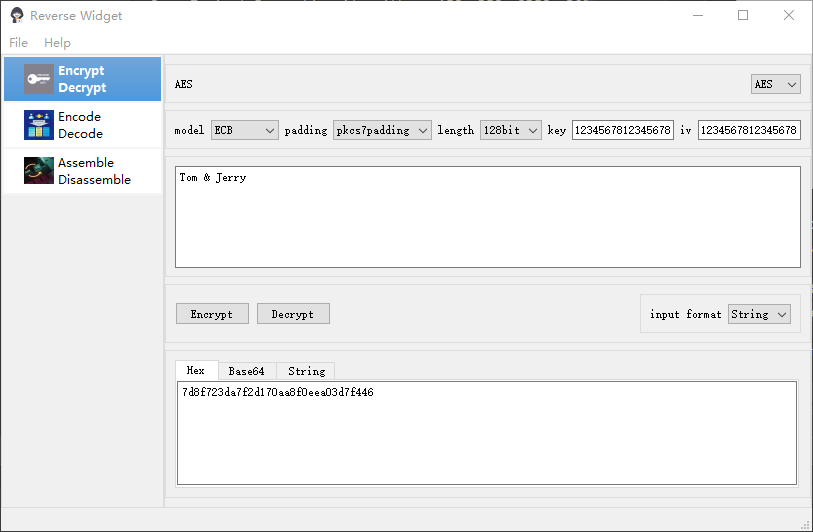
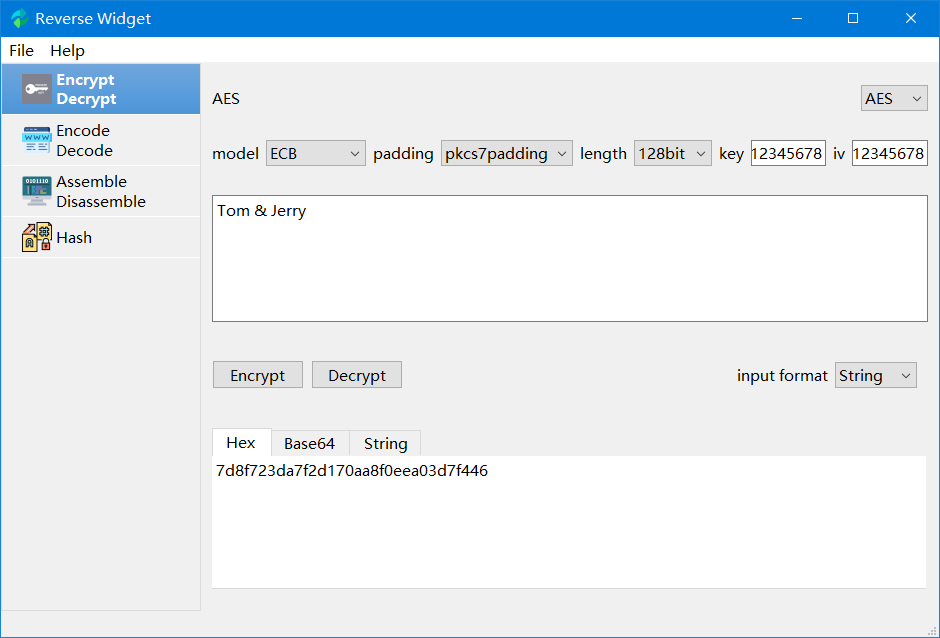
Beautify the main UI of the application and update screenshot

diff --git a/ui/main_window.py b/ui/main_window.py
@@ -70,6 +70,7 @@ class Ui_MainWindow(object):
         font.setUnderline(False)
         font.setStrikeOut(False)
         self.cryptButton.setFont(font)
+        self.cryptButton.setFocusPolicy(QtCore.Qt.NoFocus)
         self.cryptButton.setLayoutDirection(QtCore.Qt.LeftToRight)
         self.cryptButton.setStyleSheet("")
         icon1 = QtGui.QIcon()
@@ -86,6 +87,7 @@ class Ui_MainWindow(object):
         font.setUnderline(False)
         font.setStrikeOut(False)
         self.codeButton.setFont(font)
+        self.codeButton.setFocusPolicy(QtCore.Qt.NoFocus)
         self.codeButton.setStyleSheet("")
         icon2 = QtGui.QIcon()
         icon2.addPixmap(QtGui.QPixmap("ui/resources/pictures/code.png"), QtGui.QIcon.Normal, QtGui.QIcon.Off)
@@ -119,6 +121,7 @@ class Ui_MainWindow(object):
         font.setUnderline(False)
         font.setStrikeOut(False)
         self.hashButton.setFont(font)
+        self.hashButton.setFocusPolicy(QtCore.Qt.NoFocus)
         icon4 = QtGui.QIcon()
         icon4.addPixmap(QtGui.QPixmap("ui/resources/pictures/md5.png"), QtGui.QIcon.Normal, QtGui.QIcon.Off)
         self.hashButton.setIcon(icon4)

diff --git a/README.md b/README.md
@@ -1,6 +1,6 @@
-English | [中文](https://github.com/liyansong2018/ReverseWidget/blob/master/README_zh.md)
-
 # Reverse Widget
+
+[![platform](https://img.shields.io/badge/Platform-Windows%20%7C%20macOS%20%7C%20linux-blue?style=flat-square)](#) [![language](https://img.shields.io/github/languages/count/liyansong2018/ReverseWidget?style=flat-square)](#) [![english](https://img.shields.io/badge/English(US)-100%-blue?style=flat-square)](#) [![chinese](https://img.shields.io/badge/简体中文-60%-blue?style=flat-square)](https://github.com/liyansong2018/ReverseWidget/blob/master/README_zh.md)
 
 Reverse Widget is a lightweight GUI Software that implements some typical  block cipher,  coding, hashing, and multi-architecture assemble/disassembly framework. Highlight Features:
 
@@ -66,6 +66,10 @@ Limitations
 
 1. run `setup.bat`
 2. run `run.sh`
+
+### macOS
+
+Coming...
 
 See [COMPILE.md](https://github.com/liyansong2018/ReverseWidget/wiki/Compile-&-Docs_zh) file for how to compile and install Reverse Widget. 
 
